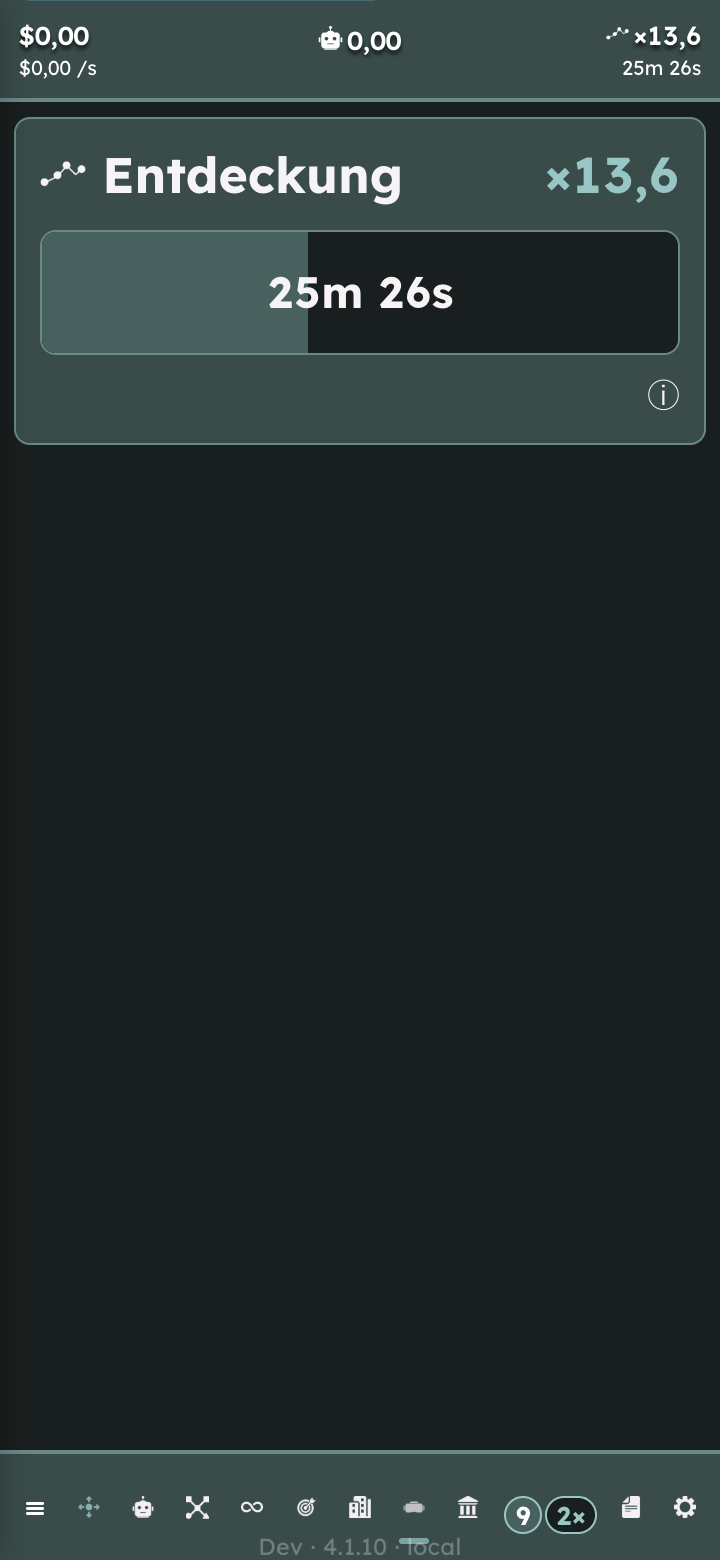
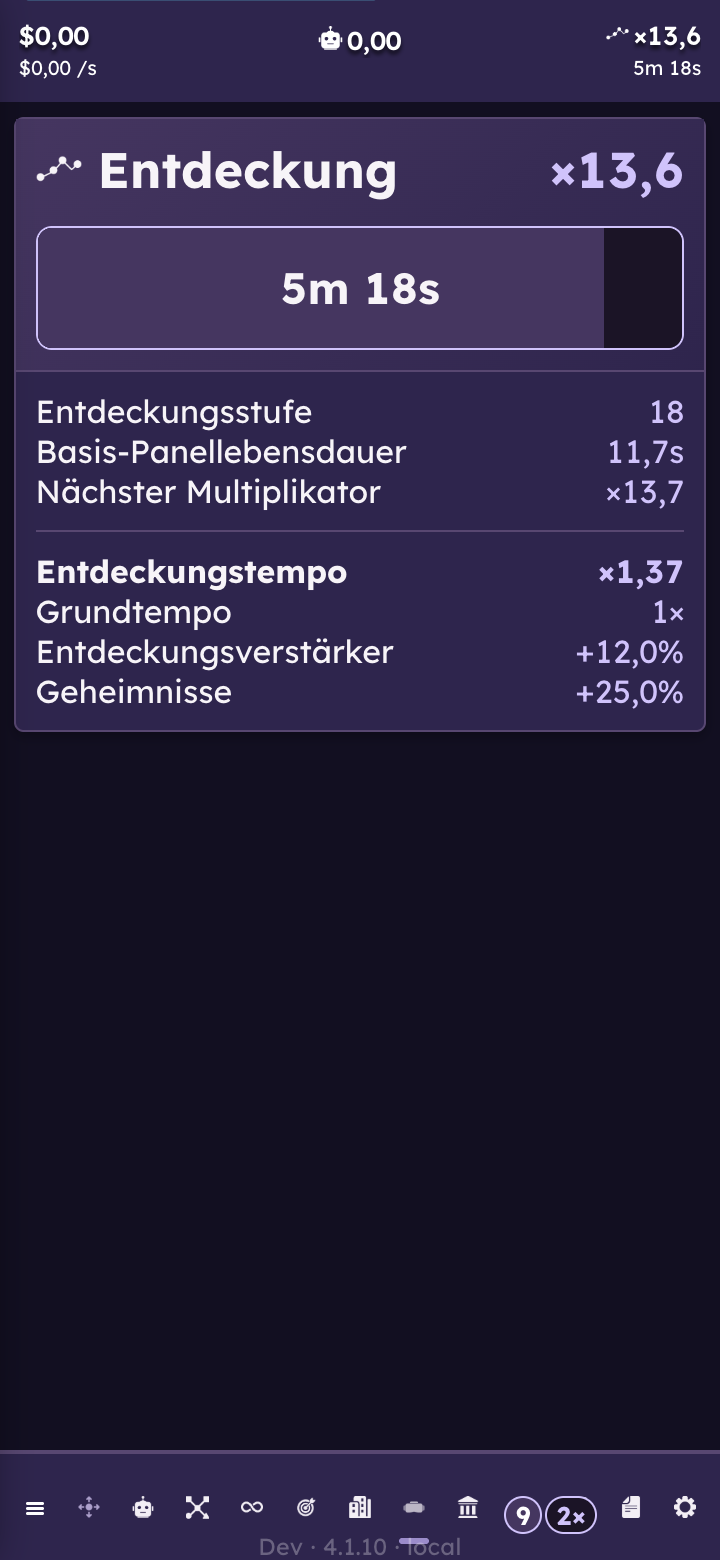
Match Discovery presentation to Avocato and expand the whole card

diff --git a/src/ui/gameplay/discovery/DiscoverySurface.tsx b/src/ui/gameplay/discovery/DiscoverySurface.tsx
@@ -20,21 +20,25 @@ export function DiscoverySurface({ state, effects, locale, gameSpeed }: {
   const intl = useIntl()
   const formatCatalogMessage = intl.formatMessage
   const time = formatGameDuration(locale, effects.secondsToNext / gameSpeed)
+  const productionLabel = intl.formatMessage(m.production, { value: formatGameNumber(locale, effects.multiplier) })
   return <div className="discovery-surface">
-    <section className="discovery-card" aria-label={intl.formatMessage(m.name)}>
-      <header className="discovery-heading">
-        <h2><InlineImageSymbol src={navigationAssets.discovery} label="" tint />{intl.formatMessage(m.name)}</h2>
-        <strong aria-label={intl.formatMessage(m.production, { value: formatGameNumber(locale, effects.multiplier) })}>×{formatGameNumber(locale, effects.multiplier)}</strong>
-      </header>
-      <Progress className="discovery-progress" label={intl.formatMessage(m.name)} valueText={time}
-        value={state.progress} maximum={DISCOVERY_TUNING.completionProgress} />
-      <details className="discovery-details">
-        <summary aria-label={intl.formatMessage(m.details)} title={intl.formatMessage(m.resetRule)}>ⓘ</summary>
-        <p>{intl.formatMessage(m.level, { value: formatWholeGameNumber(locale, state.completions + 1n) })}</p>
-        <p>{intl.formatMessage(m.lifetime, { value: formatGameNumber(locale, effects.strength) })}</p>
-        <p>{intl.formatMessage(m.next, { value: formatGameNumber(locale, effects.nextMultiplier), time })}</p>
-        <p>{intl.formatMessage(m.resetRule)}</p>
-        <dl><div><dt>{intl.formatMessage(m.speedSources)}</dt><dd>×{formatGameNumber(locale, effects.speed)}</dd></div>
+    <details className="discovery-card">
+      <summary className="discovery-toggle" aria-label={`${intl.formatMessage(m.details)}: ${productionLabel}, ${time}`}>
+        <span className="discovery-heading">
+          <span className="discovery-title"><InlineImageSymbol src={navigationAssets.discovery} label="" tint />{intl.formatMessage(m.name)}</span>
+          <strong aria-label={productionLabel}>×{formatGameNumber(locale, effects.multiplier)}</strong>
+        </span>
+        <Progress className="discovery-progress" label={intl.formatMessage(m.name)} valueText={time}
+          value={state.progress} maximum={DISCOVERY_TUNING.completionProgress} />
+      </summary>
+      <div className="discovery-details">
+        <dl className="discovery-facts">
+          <div><dt>{intl.formatMessage(m.levelLabel)}</dt><dd>{formatWholeGameNumber(locale, state.completions + 1n)}</dd></div>
+          <div><dt>{intl.formatMessage(m.baseLifetime)}</dt><dd>{formatGameDuration(locale, effects.strength, { maximumFractionDigits: 1 })}</dd></div>
+          <div><dt>{intl.formatMessage(m.nextMultiplier)}</dt><dd>×{formatGameNumber(locale, effects.nextMultiplier)}</dd></div>
+        </dl>
+        <dl className="discovery-speed-sources">
+          <div className="discovery-speed-total"><dt>{intl.formatMessage(m.speedSources)}</dt><dd>×{formatGameNumber(locale, effects.speed)}</dd></div>
           <div><dt>{intl.formatMessage(m.baseSpeed)}</dt><dd>1×</dd></div>
           {effects.sources.map(source => {
             const descriptor = source.id === 'subskill.cashScience.production' ? skillMessages.subskillProductionName : source.id === 'discovery.speed' ? m.speed
@@ -46,7 +50,7 @@ export function DiscoverySurface({ state, effects, locale, gameSpeed }: {
             return <div key={source.id}><dt>{name}</dt><dd>+{formatGameNumber(locale, source.bonus * 100)}%</dd></div>
           })}
         </dl>
-      </details>
-    </section>
+      </div>
+    </details>
   </div>
 }

diff --git a/src/ui/gameplay/discovery/discovery.css b/src/ui/gameplay/discovery/discovery.css
@@ -4,10 +4,10 @@
   color: var(--color-text-primary);
 }
 .discovery-card {
-  padding: clamp(0.75rem, 2vw, 1.5rem);
   background: var(--theme-panel);
   border: 1px solid var(--theme-divider);
-  border-radius: var(--radius-md);
+  border-radius: 0.3rem;
+  box-shadow: 0 0.16rem 0.35rem rgb(0 0 0 / 26%);
 }
 .discovery-heading {
   display: flex;
@@ -16,11 +16,11 @@
   gap: 1rem;
   margin-block-end: 0.8rem;
 }
-.discovery-heading h2 {
+.discovery-title {
   display: flex;
   align-items: center;
   gap: 0.5rem;
-  margin: 0;
+  font-weight: var(--font-weight-bold);
   font-size: calc(1.2rem * var(--game-text-scale));
 }
 .discovery-heading strong {
@@ -61,18 +61,32 @@
 .discovery-card .discovery-progress progress::-webkit-progress-bar { background: var(--theme-page); }
 .discovery-card .discovery-progress progress::-webkit-progress-value { background: var(--theme-selected); }
 .discovery-card .discovery-progress progress::-moz-progress-bar { background: var(--theme-selected); }
-.discovery-details { margin-block-start: 0.5rem; }
-.discovery-details summary {
+/* The header and bar form one native, keyboard-operable disclosure. */
+.discovery-toggle {
+  display: block;
+  padding: var(--ui-panel-inset);
+  border-radius: inherit;
+  background: linear-gradient(135deg, var(--theme-selected), var(--theme-panel));
   cursor: pointer;
-  display: grid;
-  place-items: center;
-  min-inline-size: 2rem;
-  min-block-size: 2rem;
   list-style: none;
-  inline-size: max-content;
-  margin-inline-start: auto;
 }
-.discovery-details summary::-webkit-details-marker { display: none; }
-.discovery-details p { margin-block: 0.5rem; }
+.discovery-toggle::-webkit-details-marker { display: none; }
+.discovery-toggle:focus-visible {
+  outline: 2px solid var(--theme-accent);
+  outline-offset: 2px;
+}
+.discovery-toggle:hover .discovery-progress progress { border-color: var(--theme-accent); }
+.discovery-details {
+  padding: var(--ui-panel-inset);
+  border-block-start: 1px solid var(--theme-divider);
+}
+.discovery-details dl { margin: 0; }
+.discovery-details .discovery-speed-sources {
+  margin-block-start: var(--ui-panel-inset);
+  padding-block-start: var(--ui-panel-inset);
+  border-block-start: 1px solid var(--theme-divider);
+}
+.discovery-speed-total { font-weight: var(--font-weight-bold); }
 .discovery-details dl > div { display: flex; justify-content: space-between; gap: 1rem; }
-.discovery-details dd { margin: 0; white-space: nowrap; }
+.discovery-details dt { min-inline-size: 0; overflow-wrap: anywhere; }
+.discovery-details dd { margin: 0; white-space: nowrap; color: var(--theme-accent); }

diff --git a/src/ui/gameplay/discovery/messages.ts b/src/ui/gameplay/discovery/messages.ts
@@ -17,6 +17,8 @@ export const discoveryMessages = defineMessages({
   addCompletions: { id: 'discovery.debug.addCompletions', defaultMessage: 'Add completed discoveries' },
   addPoints: { id: 'discovery.debug.addPoints', defaultMessage: 'Add Transcendence Points' },
   route: { id: 'discovery.route', defaultMessage: 'Transcendence' },
+  baseLifetime: { id: 'discovery.baseLifetime', defaultMessage: 'Base panel lifetime' },
+  nextMultiplier: { id: 'discovery.nextMultiplier', defaultMessage: 'Next multiplier' },
   details: { id: 'discovery.details', defaultMessage: 'Discovery details' },
   name: { id: 'discovery.name', defaultMessage: 'Discovery' },
   level: { id: 'discovery.level', defaultMessage: 'Discovery · Level {value}' },

diff --git a/src/ui/gameplay/dyson/ReadyDysonSlice.tsx b/src/ui/gameplay/dyson/ReadyDysonSlice.tsx
@@ -1055,7 +1055,7 @@ export function ReadyDysonSlice({
         ? undefined
         : intl.formatMessage(messages.releaseFooter, releaseFooter)}
       heading={intl.formatMessage(routeHeading)}
-      routeTheme={route === 'transcendence' ? 'research' : challengesActive ? 'infinity' : debugActive ? 'statistics' : storeActive ? 'bots' : route}
+      routeTheme={route === 'transcendence' ? 'avocato' : challengesActive ? 'infinity' : debugActive ? 'statistics' : storeActive ? 'bots' : route}
       routeContentEdgeToEdge={storeActive}
       routeThemeVariant={
         gameplay.derived.simulations?.currentEra ?? 'foundational'

diff --git a/docs/plans/discovery-prototype.md b/docs/plans/discovery-prototype.md
@@ -105,13 +105,23 @@ and reran that guard successfully before the final full suite.
 
 ### Final presentation refinement
 
-Matthew requested a quieter Transcendence screen during QA. The default view now
-shows **Discovery** opposite **×M**, with a prominent 48px progress bar and the
-time remaining centered inside it. Level, lifetime, next multiplier, reset rule
-and the actual speed-source breakdown are available through the compact info
-disclosure rather than repeated above the bar. The existing Research palette,
-shared Progress component and localized messages are retained. This supersedes
-the original verbose card layout.
+Matthew's final visual direction supersedes the original Research palette and
+info-button proposal. The default view shows **Discovery** opposite **×M**, with
+a prominent 48px progress bar and the time remaining centered inside it. The
+card uses Avocato's existing purple theme, inset, border, shadow and gradient.
+The whole header/bar is the native disclosure control. No standalone info button
+or reset-explanation paragraph remains. Opening it reveals compact label/value
+rows for level, base lifetime, next multiplier and the actual speed breakdown.
+The shared Progress component and localized messages are retained.
+
+Visual follow-up: inspected collapsed/expanded browser views at desktop and
+360px, plus German at 130% text (no horizontal overflow). Clicked the bar to open,
+the heading to close, and verified Enter/Space operation and visible keyboard
+focus. The accessible disclosure name includes production benefit and remaining
+time. Rebuilt and tapped both states in the isolated iOS Simulator app, and checked
+the same presentation and bar interaction in the packaged macOS app after a
+cold process restart. Full
+screen-reader testing and Android interaction remain unavailable as noted above.
 
 ## Balance and performance evidence
 
@@ -431,6 +441,9 @@ Final UI evidence: [360px](../qa/discovery-prototype/narrow.png),
 [actual skill dialogs](../qa/discovery-prototype/skill-descriptions.txt).
 
 Final native card screenshots: [iOS](../qa/discovery-prototype/ios.png),
-[packaged macOS](../qa/discovery-prototype/macos.png). Final accessibility review
-requested a broader “Discovery details” label and a larger info hit target; both
-were applied, localized, and keyboard-tested in the browser.
+[iOS expanded](../qa/discovery-prototype/ios-expanded.png),
+[packaged macOS](../qa/discovery-prototype/macos.png),
+[macOS expanded](../qa/discovery-prototype/macos-expanded.png).
+Expanded narrow browser evidence: [360px details](../qa/discovery-prototype/narrow-expanded.png).
+Independent follow-up review found no theme-scope or maintainability issues;
+its accessible-name finding was addressed without adding visible copy.
